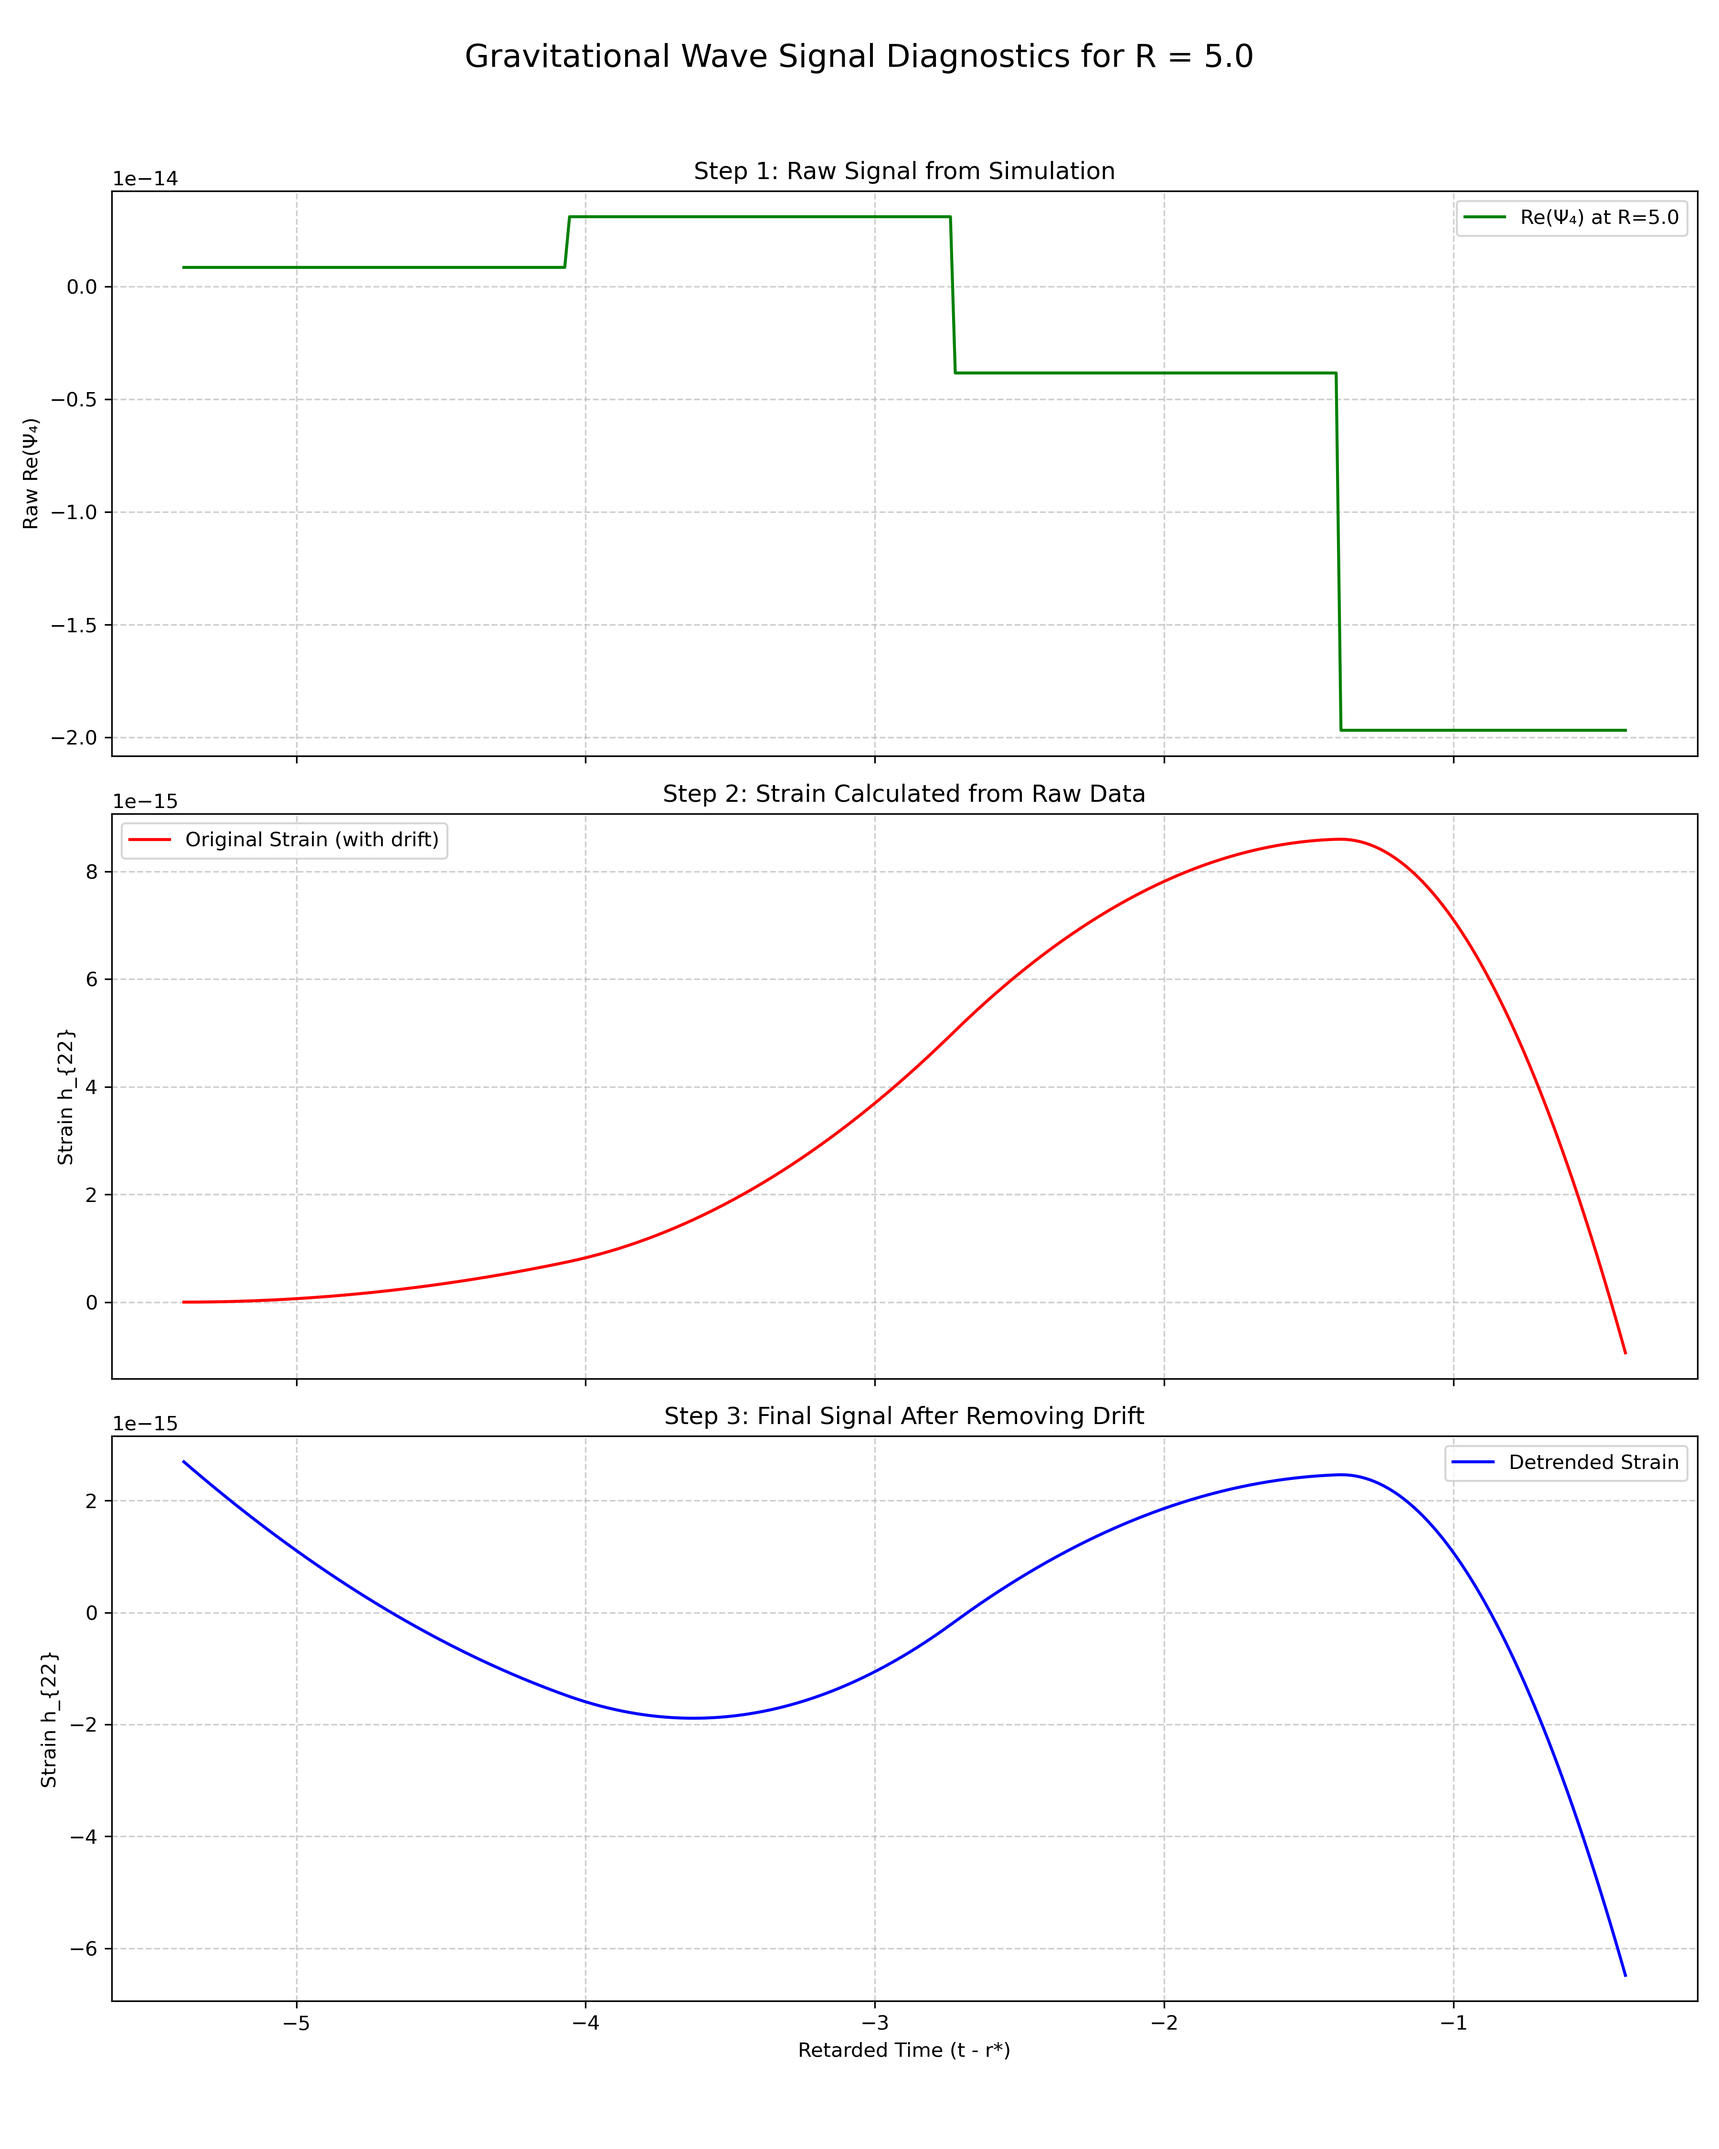
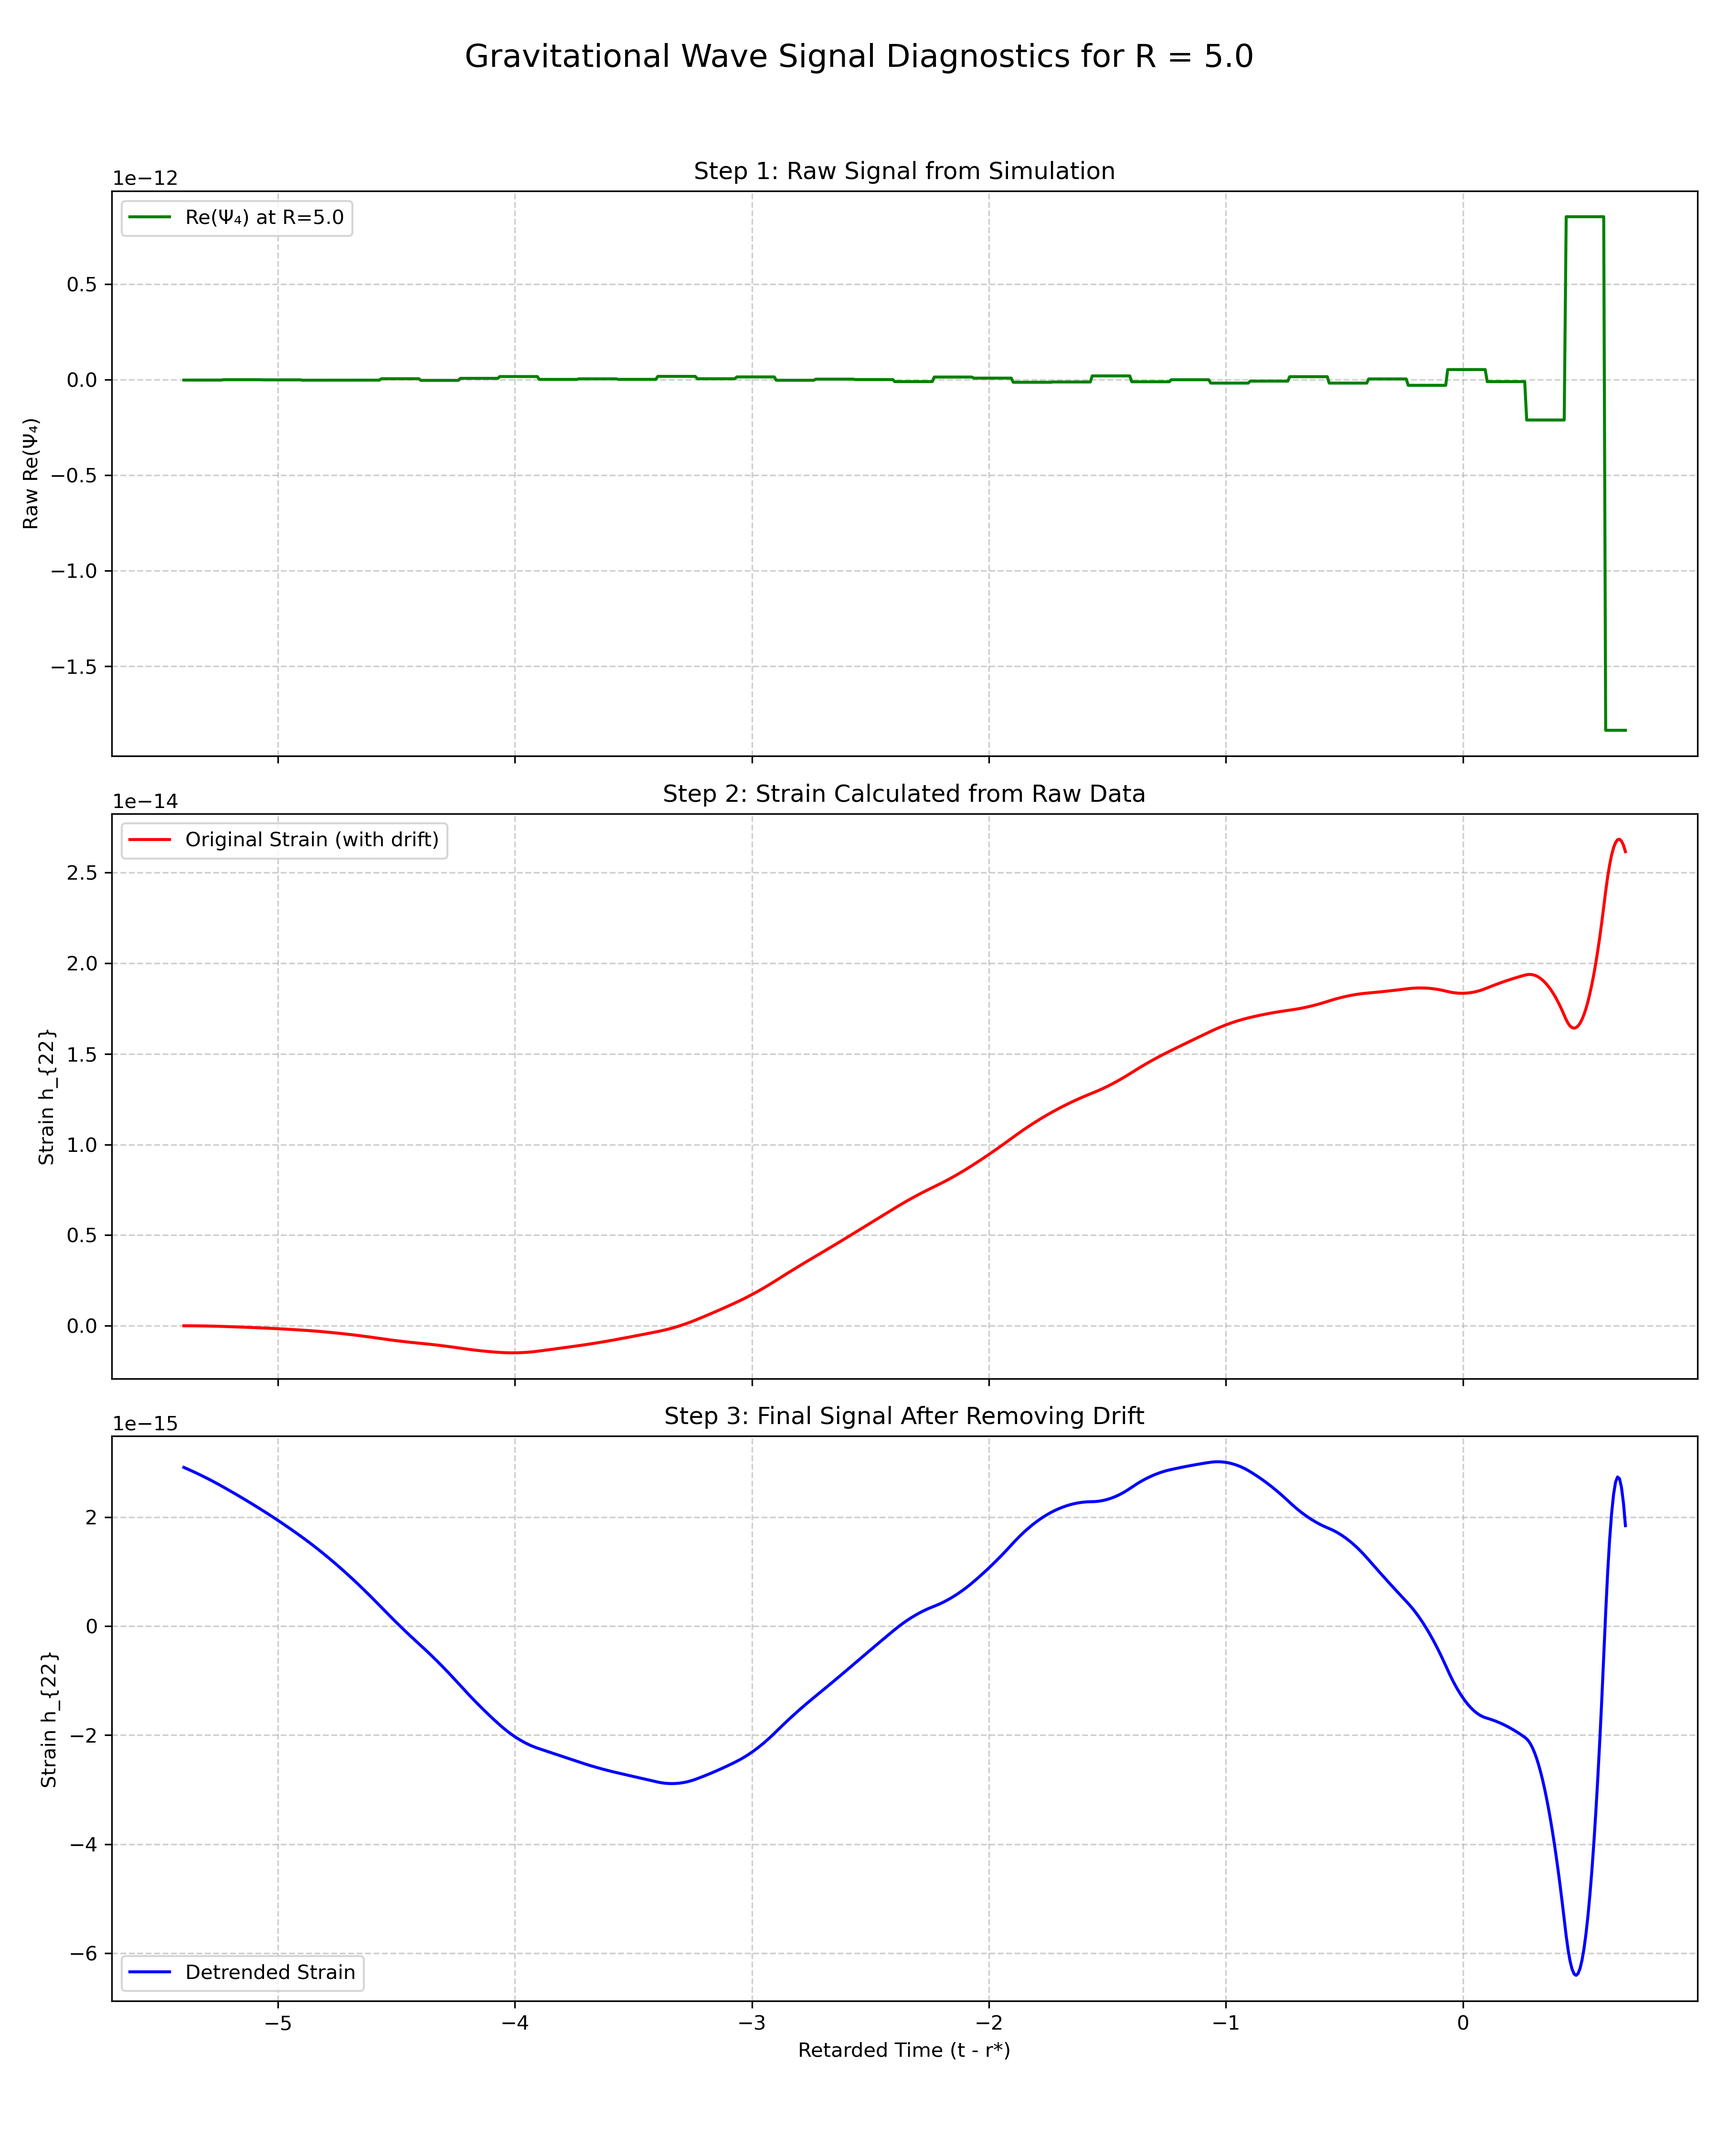
feat: animations

diff --git a/Animation/plot_wormhole.py b/Animation/plot_wormhole.py
@@ -6,6 +6,7 @@ import yt
 import os
 import matplotlib
 import argparse
+from mpi4py import MPI
 
 # =========================================================================
 # --- Configuration ---
@@ -89,6 +90,11 @@ def main():
     # Use a non-interactive backend suitable for saving files
     matplotlib.use("Agg")
 
+    # Initialize MPI
+    comm = MPI.COMM_WORLD
+    rank = comm.Get_rank()
+    size = comm.Get_size()
+
     # Set up command-line argument parsing
     parser = argparse.ArgumentParser(description="Plot 2D slices from GRChombo HDF5 files.")
     parser.add_argument(
@@ -105,25 +111,37 @@ def main():
     # Load the dataset series. In serial mode, this creates a list of all files.
     try:
         ts = yt.load(data_path_pattern)
-        print(f"Found {len(ts)} HDF5 files to process in '{data_path_pattern}'")
+        if rank == 0:
+            print(f"Found {len(ts)} HDF5 files to process in '{data_path_pattern}'")
     except Exception as e:
-        print(f"ERROR: Could not load data from pattern '{data_path_pattern}'")
-        print(f"Please check that the path is correct and files exist. Details: {e}")
+        if rank == 0:
+            print(f"ERROR: Could not load data from pattern '{data_path_pattern}'")
+            print(f"Please check that the path is correct and files exist. Details: {e}")
         return
 
-    # The main serial loop. This will iterate through each file one by one.
-    for i, ds in enumerate(ts):
-        print(f"\n--- Processing file {i+1} of {len(ts)} (t = {ds.current_time:.3f}) ---")
+    # Distribute the files across the MPI processes
+    files_to_process = ts[rank::size]
+
+    if len(files_to_process) > 0:
+        print(f"[Process {rank}] will process {len(files_to_process)} files.")
+
+    # The main parallel loop. Each process iterates through its assigned files.
+    for i, ds in enumerate(files_to_process):
+        print(f"[Process {rank}] --- Processing file {i+1} of {len(files_to_process)} (t = {ds.current_time:.3f}) ---")
         # Loop through the list of variables we want to plot
         for var_name in VARIABLES_TO_PLOT:
             try:
                 produce_slice_plot(ds, var_name)
             except Exception as e:
-                print(f"  ! FAILED to plot '{var_name}': {e}")
+                print(f"[Process {rank}]   ! FAILED to plot '{var_name}': {e}")
 
-    print("\n===================================")
-    print("All plotting tasks complete.")
-    print("===================================")
+    # Wait for all processes to finish before printing the final message
+    comm.Barrier()
+
+    if rank == 0:
+        print("\n===================================")
+        print("All plotting tasks complete.")
+        print("===================================")
 
 # This ensures the main function is called when the script is executed
 if __name__ == "__main__":

diff --git a/Animation/grav_waves.py b/Animation/grav_waves.py
@@ -14,7 +14,7 @@ from scipy.integrate import cumulative_trapezoid
 
 # NEW: CHOOSE WHICH RADIUS TO PLOT FROM THE DATA FILE
 # Your file contains data for R=1.0 and R=5.0
-radius_to_plot = 20.0  # <-- CHANGE THIS VALUE to 1.0 or 5.0
+radius_to_plot = 5.0  # <-- CHANGE THIS VALUE to 1.0 or 5.0
 
 M = 1.0
 mode = "22"
@@ -39,7 +39,7 @@ except Exception as e:
 print(f"Selecting data columns for radius R = {radius_to_plot}")
 time_simulation = psi4_data[:, 0]
 
-if radius_to_plot == 20.0:
+if radius_to_plot == 10.0:
     re_psi4 = psi4_data[:, 1]  # Column 1 is Re(Psi4) for R=1.0
     im_psi4 = psi4_data[:, 2]  # Column 2 is Im(Psi4) for R=1.0
 elif radius_to_plot == 5.0:

diff --git a/Google_clound/README_Docker_run.md b/Google_clound/README_Docker_run.md
@@ -318,3 +318,45 @@ If your simulation starts running out of space, you can increase the size of you
 -   **Problem:** `docker pull` fails with `permission denied`.
     -   **Cause:** Your shell session hasn't recognized that you were added to the `docker` group.
     -   **Solution:** Log out of the VM and log back in.
+
+-   **Problem:** The main VM disk (`/dev/sda1`) is full, but `docker system prune` doesn't free up much space.
+    -   **Cause:** A running or recently stopped Docker container has generated a very large log file. These logs are not always cleaned up by the `prune` command.
+    -   **Solution: Manually Clear Logs and Configure Log Rotation**
+        1.  **Find the Large File:**
+            First, confirm that a Docker log file is the culprit. Run this command to find the largest files on your system.
+            ```bash
+            sudo du -ah / | sort -hr | head -n 20
+            ```
+            Look for a very large file located in `/var/lib/docker/containers/...` that ends in `-json.log`.
+
+        2.  **Safely Empty the Log File:**
+            Instead of deleting the file (which can be unsafe), truncate it to zero bytes. This clears the contents without removing the file itself.
+            ```bash
+            # NOTE: The container ID below is an example from a real session.
+            # You must replace it with the specific ID you found with the 'du' command.
+            sudo truncate -s 0 /var/lib/docker/containers/462e3ce96fb433bfdb05368bb097c9cae9250bdbe55cd61503f9810f8e31d2fb/462e3ce96fb433bfdb05368bb097c9cae9250bdbe55cd61503f9810f8e31d2fb-json.log
+            ```
+            Run `df -h` again to confirm that the space has been freed.
+
+        3.  **Prevent This Permanently (Recommended):**
+            To stop this from happening again, configure the Docker daemon to automatically rotate and limit log files for all future containers.
+            -   Create or edit the Docker daemon configuration file:
+                ```bash
+                sudo nano /etc/docker/daemon.json
+                ```
+            -   Add the following content to the file. This tells Docker to limit log files to 3 per container, with a maximum size of 10MB each.
+                ```json
+                {
+                  "log-driver": "json-file",
+                  "log-opts": {
+                    "max-size": "10m",
+                    "max-file": "3"
+                  }
+                }
+                ```
+            -   Save the file (`Ctrl+X`, `Y`, `Enter`).
+            -   Restart the Docker daemon for the changes to take effect.
+                ```bash
+                sudo systemctl restart docker
+                ```
+            All new containers you create will now have their logs automatically managed.

diff --git a/Google_clound/README_Docker_plot.md b/Google_clound/README_Docker_plot.md
@@ -50,6 +50,8 @@ With the environment set up, you can now run any of the Python plotting scripts.
     # Replace wormhole_run_01 with the name of your simulation output folder
     python plot_wormhole.py --data_dir /mnt/data/wormhole_run_production/hdf5/
 
+    mpirun -np 4 python Animation/plot_wormhole.py --data_dir /mnt/data/wormhole_run_production/hdf5/
+
     python plot_wormhole.py --data_dir /mnt/data/wormhole_run_cheap/hdf5/
 
     python create_animation.py all
